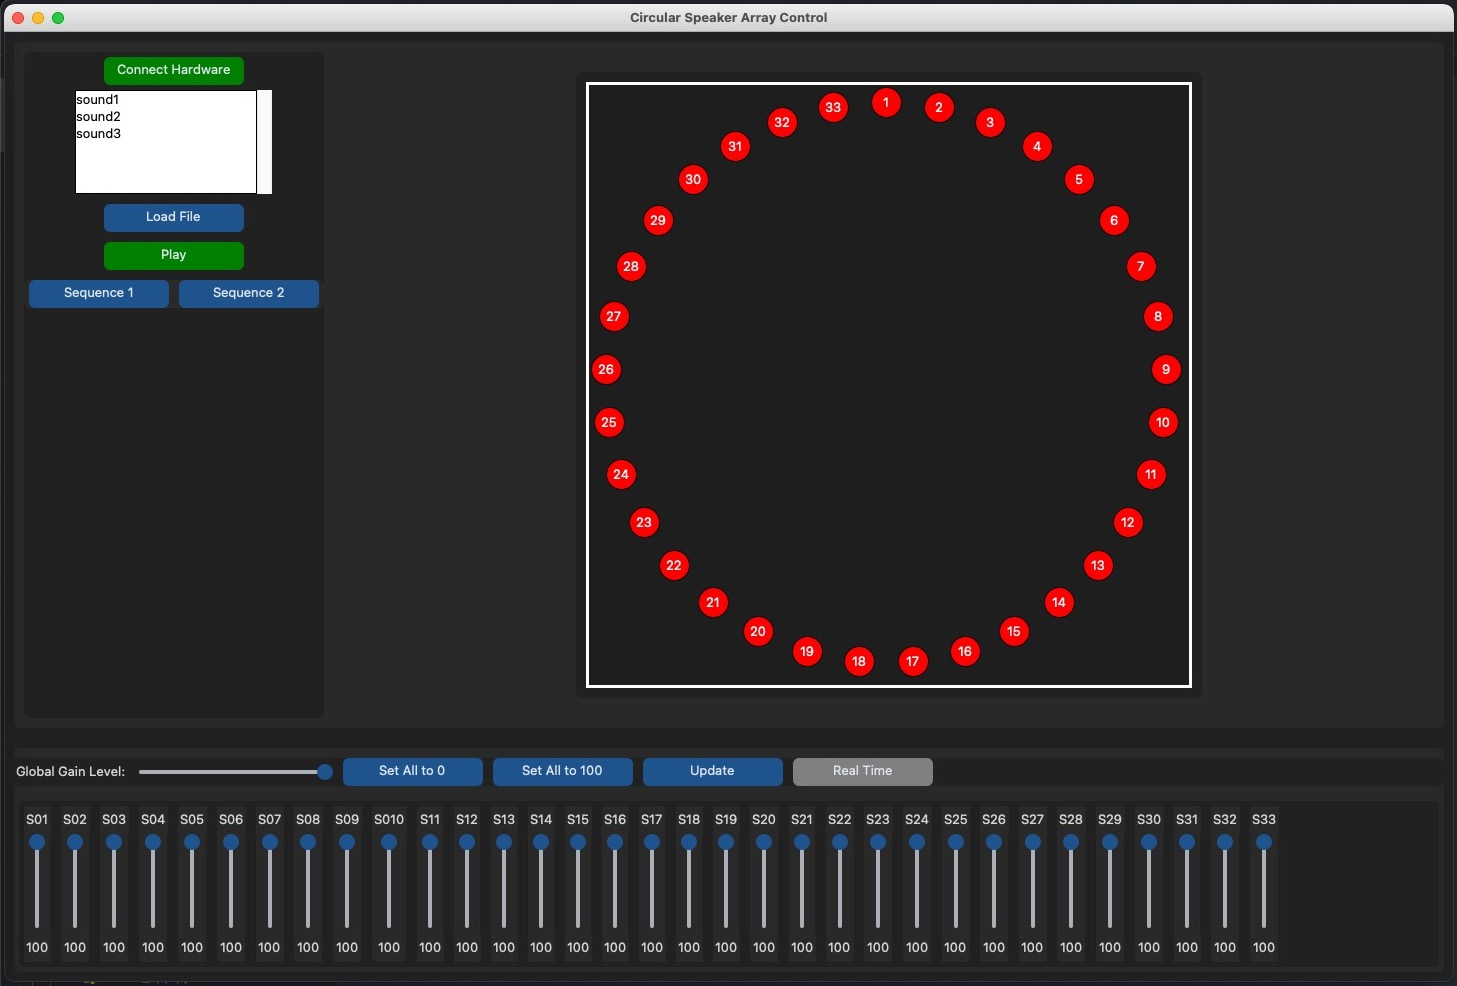
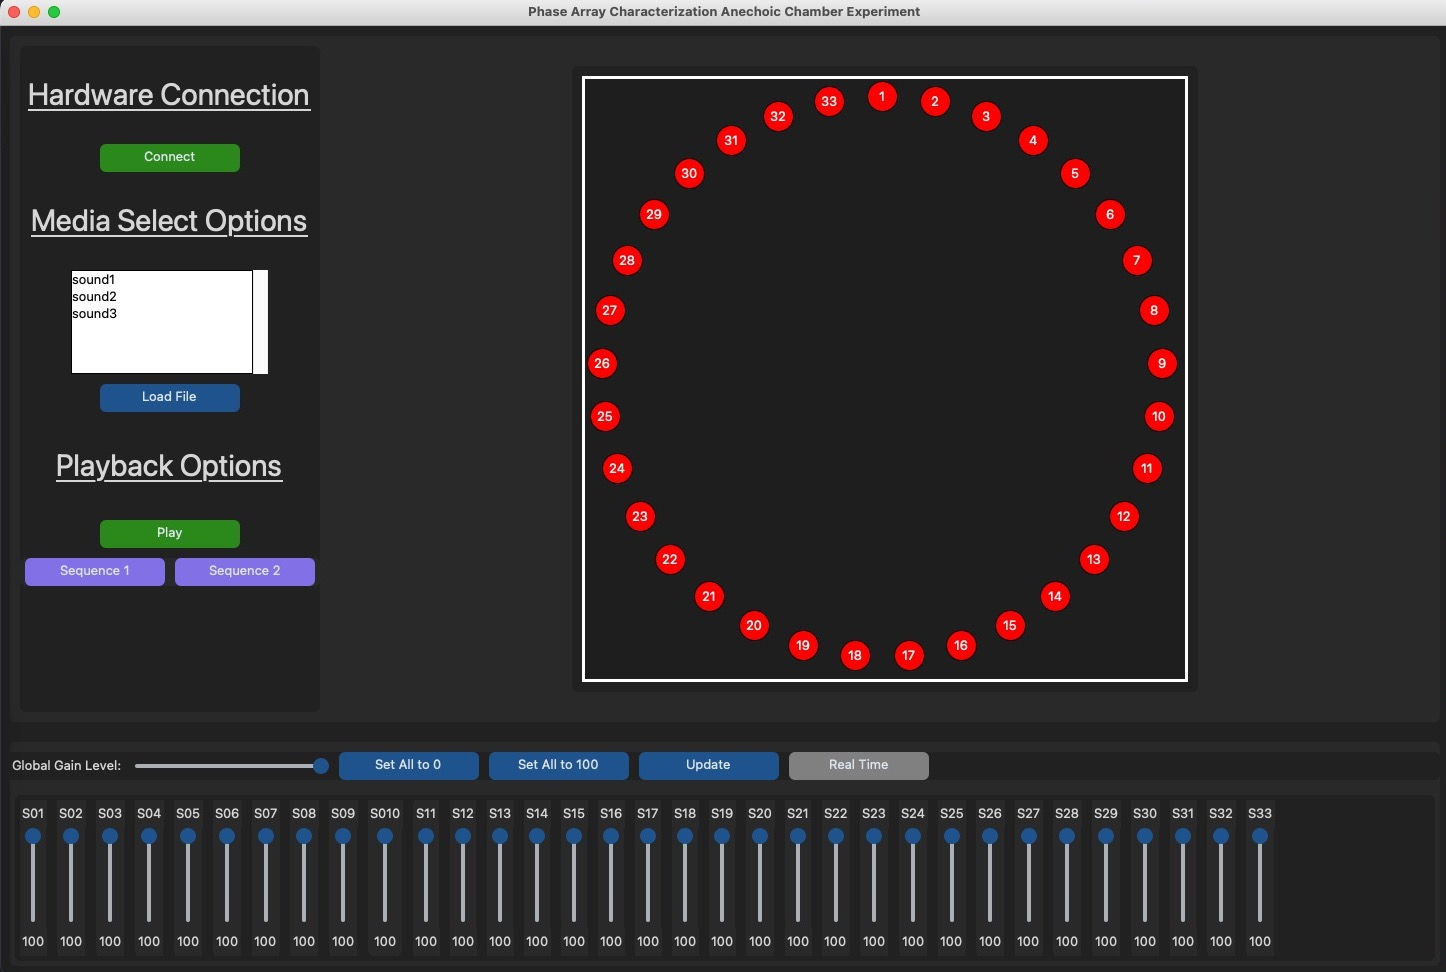
organizational updates

diff --git a/readme.md b/readme.md
@@ -1,4 +1,4 @@
-# Phase Array Characterization Experiments in Anechoic Chamber 
+# Phase Array Characterization Experiments in UM Anechoic Chamber 
 
 ![Anechoic Chamber](media/anechoic_chamber_1.jpg)
 

diff --git a/app/control/readme.md b/app/control/readme.md
@@ -1,7 +1,7 @@
 
 
 
-# Window_Control Structure
+# Controller Structure
 
 
 
